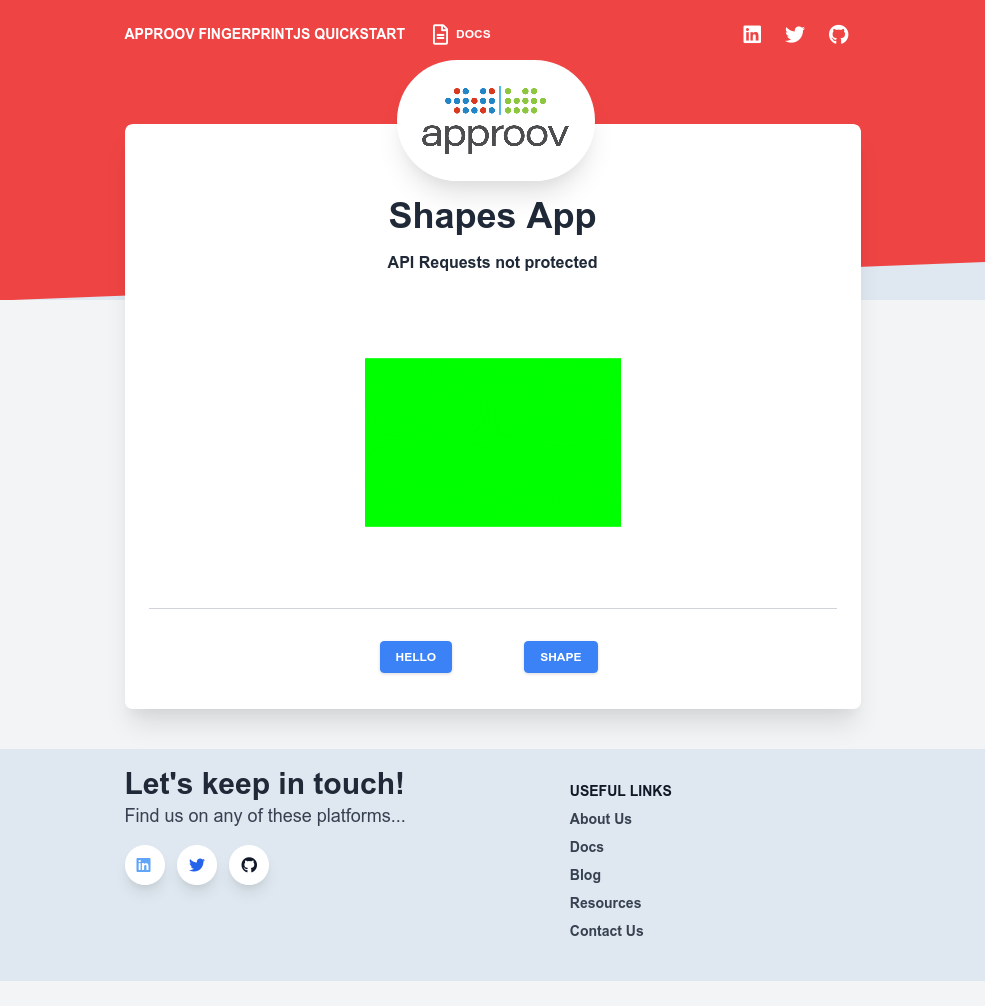
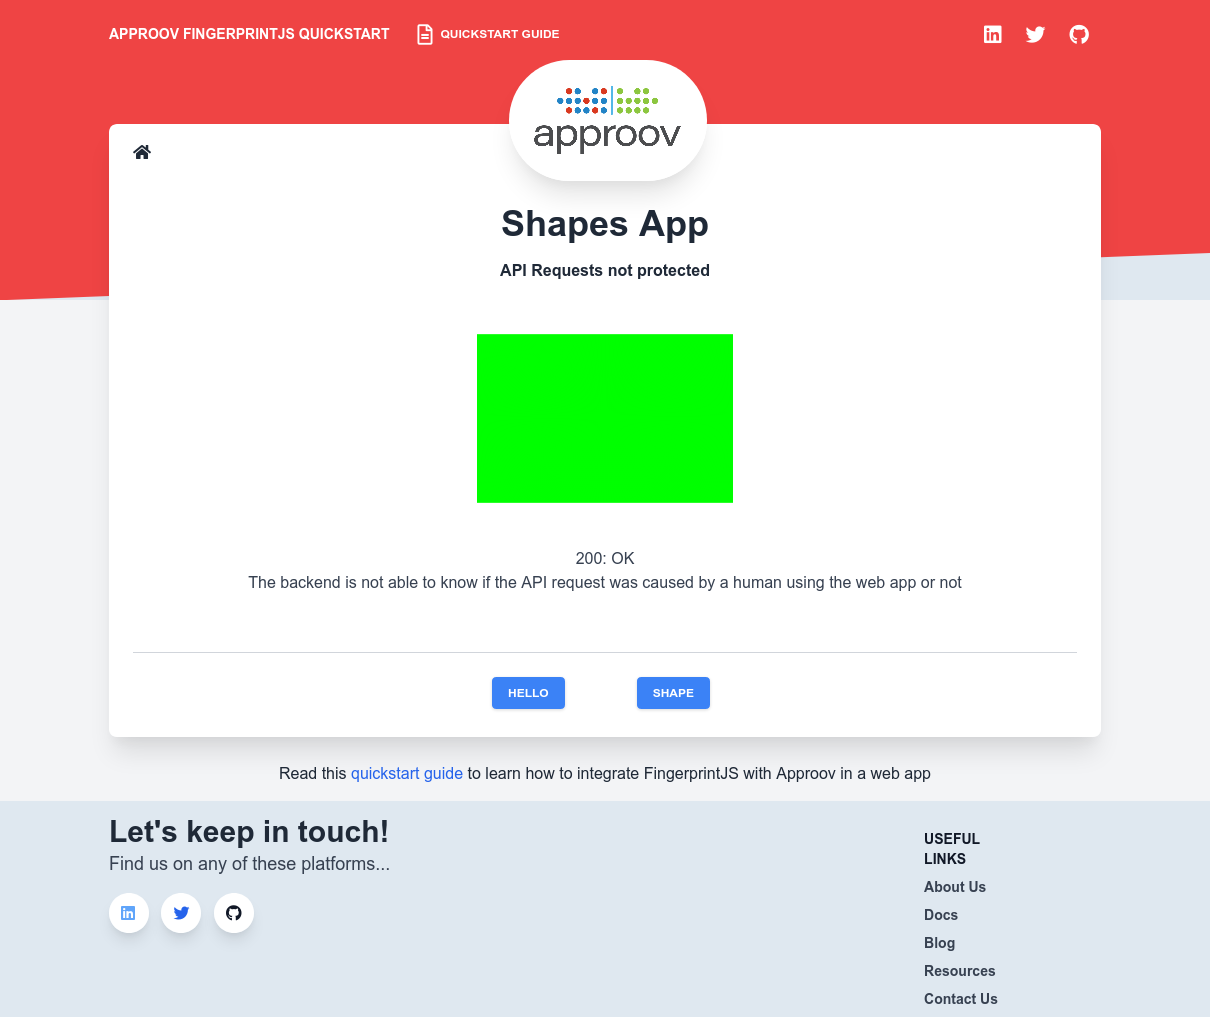
Some minor fixes and improvements.
* Fixed code in the quickstart docs.
* Updated API request feedback sentences in the HTML.
* Took new screenshots.

diff --git a/shapes-app/unprotected/index.html b/shapes-app/unprotected/index.html
@@ -49,11 +49,12 @@
             <li class="flex items-center">
               <a
                 class="text-gray-800 md:text-white lg:text-white md:hover:text-gray-300 px-3 py-4 md:py-2 flex items-center text-xs uppercase font-bold"
-                href="https://approov.io/docs"
+                href="https://github.com/approov/web-quickstart-fingerprintjs-javascript"
+                title="Approov FingerprintJS Quickstart Guide"
                 ><i
                   class="text-gray-500 sm:text-white far fa-file-alt text-xl leading-xl mr-2"
                 ></i>
-                Docs</a
+                Quickstart Guide</a
               >
             </li>
           </ul>
@@ -158,7 +159,7 @@
                   <div id="shape" class="hidden"><!-- <img src="assets/img/triangle.png" class="m-auto"> --></div>
                   <div id="success" class="hidden pt-2">
                     <p>200: OK</p>
-                    <p>The backend is not able to know if the API request was due to a human using the web app or not</p>
+                    <p>The backend is not able to know if the API request was caused by a human using the web app or not</p>
                   </div>
                 </div>
               </div>

diff --git a/shapes-app/approov-fingerprintjs-protected/index.html b/shapes-app/approov-fingerprintjs-protected/index.html
@@ -49,11 +49,12 @@
             <li class="flex items-center">
               <a
                 class="text-gray-800 md:text-white lg:text-white md:hover:text-gray-300 px-3 py-4 md:py-2 flex items-center text-xs uppercase font-bold"
-                href="https://approov.io/docs"
+                href="https://github.com/approov/web-quickstart-fingerprintjs-javascript"
+                title="Approov FingerprintJS Quickstart Guide"
                 ><i
                   class="text-gray-500 sm:text-white far fa-file-alt text-xl leading-xl mr-2"
                 ></i>
-                Docs</a
+                Quickstart Guide</a
               >
             </li>
           </ul>
@@ -158,7 +159,7 @@
                   <div id="shape" class="hidden"><!-- <img src="assets/img/triangle.png" class="m-auto"> --></div>
                   <div id="success" class="hidden pt-2">
                     <p>200: OK</p>
-                    <p>FingerprintJS was confident the API request was due to a human using the web app</p>
+                    <p>FingerprintJS checked the API request was caused by the a human using the web app</p>
                   </div>
                 </div>
               </div>

diff --git a/shapes-app/fingerprintjs-protected/index.html b/shapes-app/fingerprintjs-protected/index.html
@@ -49,11 +49,12 @@
             <li class="flex items-center">
               <a
                 class="text-gray-800 md:text-white lg:text-white md:hover:text-gray-300 px-3 py-4 md:py-2 flex items-center text-xs uppercase font-bold"
-                href="https://approov.io/docs"
+                href="https://github.com/approov/web-quickstart-fingerprintjs-javascript"
+                title="Approov FingerprintJS Quickstart Guide"
                 ><i
                   class="text-gray-500 sm:text-white far fa-file-alt text-xl leading-xl mr-2"
                 ></i>
-                Docs</a
+                Quickstart Guide</a
               >
             </li>
           </ul>
@@ -158,7 +159,7 @@
                   <div id="shape" class="hidden"><!-- <img src="assets/img/triangle.png" class="m-auto"> --></div>
                   <div id="success" class="hidden pt-2">
                     <p>200: OK</p>
-                    <p>FingerprintJS was confident the API request was due to a human using the web app</p>
+                    <p>FingerprintJS checked the API request was caused by the a human using the web app</p>
                   </div>
                 </div>
               </div>

diff --git a/README.md b/README.md
@@ -220,10 +220,12 @@ const API_DOMAIN = "shapes.approov.io"
 const API_BASE_URL = "https://" + API_DOMAIN
 ```
 
-Modify the file `shapes-app/unprotected/assets/js/app.js` to insert between `const APPROOV_ATTESTER_URL` and `fetchHello()` the following code:
+Modify the file `shapes-app/unprotected/assets/js/app.js` to insert between `const API_BASE_URL` and `makeApiRequest()` the following code:
 
 ```js
-// const APPROOV_ATTESTER_URL = 'https://web-1.approovr.io/attest'
+// const API_BASE_URL = "https://" + API_DOMAIN
+
+const APPROOV_ATTESTER_URL = 'https://web-1.approovr.io/attest'
 
 // Replace the placeholders with your own values
 const APPROOV_SITE_KEY = '___APPROOV_SITE_KEY___'
@@ -276,7 +278,7 @@ function addRequestHeaders() {
     })
 }
 
-// function fetchHello() {...}
+// function makeApiRequest() {...}
 ```
 
 Note that the switch from the FingerprintJS flow to the Approov flow requires only minor changes to the handling of the FingerprintJS data result. We would expect the same small changes to be required in your website at each point you construct requests that include a FingerprintJS token. Depending on how your API calls are constructed, you may be able to isolate the changes to a single point.
